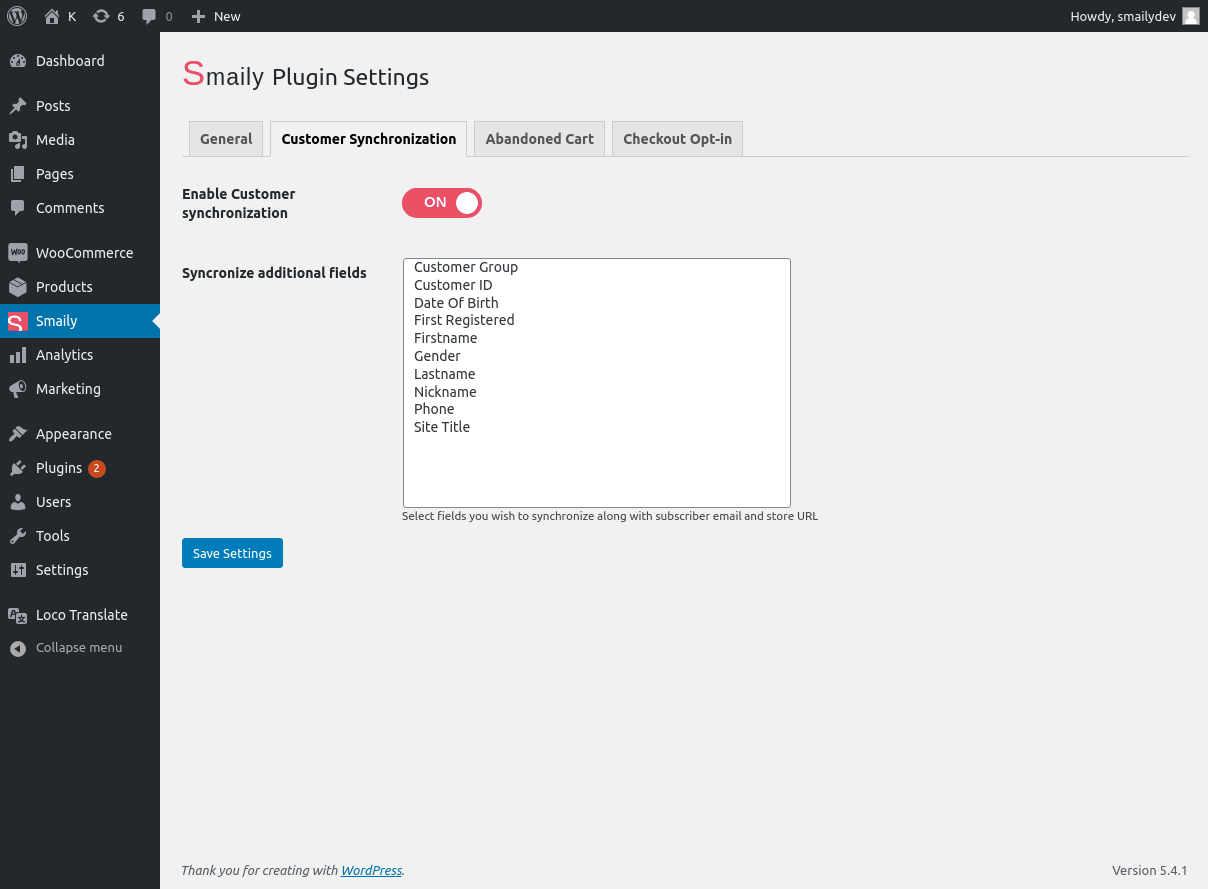
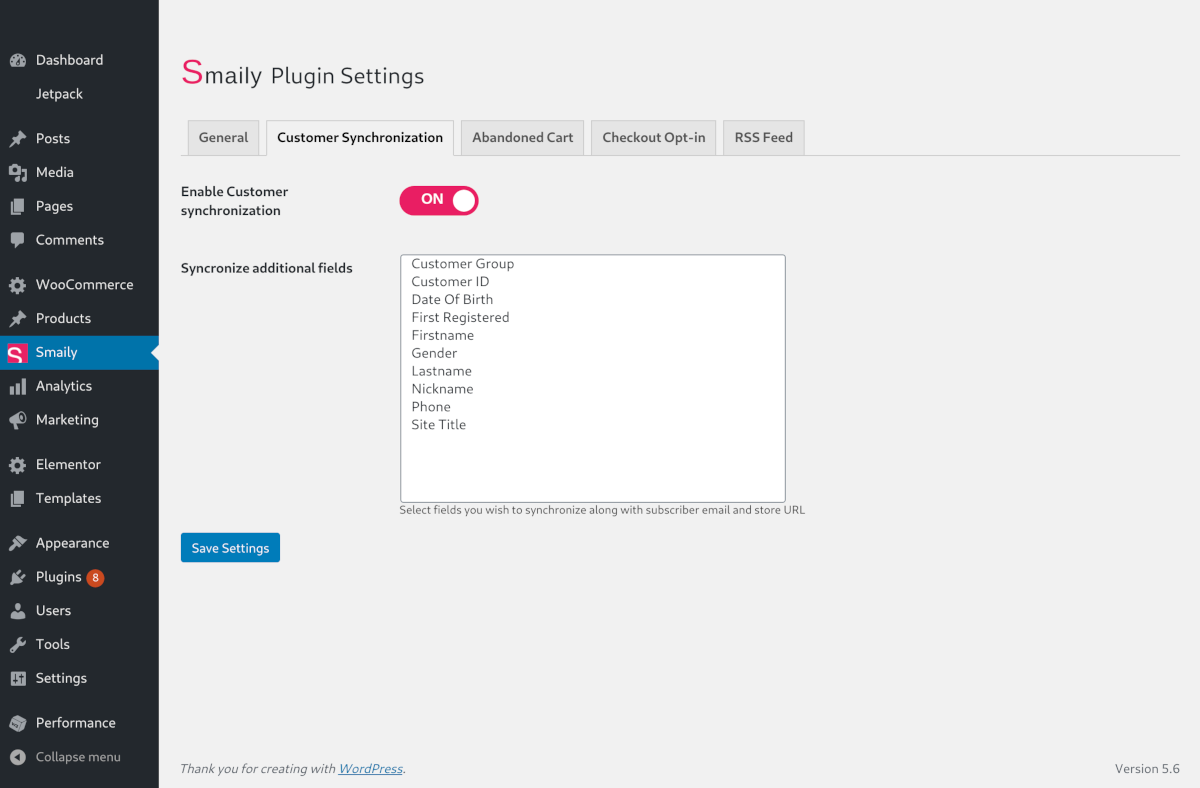
Release 1.7.0 checklist changes

diff --git a/smaily-for-woocommerce.php b/smaily-for-woocommerce.php
@@ -13,7 +13,7 @@
  * Plugin Name: Smaily for WooCommerce
  * Plugin URI: https://github.com/sendsmaily/smaily-woocommerce-plugin
  * Description: Smaily email marketing and automation extension plugin for WooCommerce. Set up easy sync for your contacts, add opt-in subscription form, import products directly to your email template and send abandoned cart reminder emails.
- * Version: 1.6.1
+ * Version: 1.7.0
  * License: GPL3
  * Author: Smaily
  * Author URI: https://smaily.com/
@@ -53,7 +53,7 @@ use Smaily_Inc\Base\Cron;
 define( 'SMAILY_PLUGIN_PATH', plugin_dir_path( __FILE__ ) );
 define( 'SMAILY_PLUGIN_URL', plugin_dir_url( __FILE__ ) );
 define( 'SMAILY_PLUGIN_NAME', plugin_basename( __FILE__ ) );
-define( 'SMAILY_PLUGIN_VERSION', '1.6.1' );
+define( 'SMAILY_PLUGIN_VERSION', '1.7.0' );
 
 // Required to use functions is_plugin_active and deactivate_plugins.
 require_once ABSPATH . 'wp-admin/includes/plugin.php';

diff --git a/CHANGELOG.md b/CHANGELOG.md
@@ -1,9 +1,16 @@
 # Changelog
 
+### 1.7.0
+- Test compatibility with WordPress 5.6. [issue #70](https://github.com/sendsmaily/smaily-woocommerce-plugin/issues/70)
+- Smaily plugin settings "General" tab refinement. [issue #72](https://github.com/sendsmaily/smaily-woocommerce-plugin/pull/72)
+- Improve plugin description to better describe the plugin's features. [issue #75](https://github.com/sendsmaily/smaily-woocommerce-plugin/pull/75)
+- Dequeue 3rd party styles in module settings page. [issue #77](https://github.com/sendsmaily/smaily-woocommerce-plugin/pull/77)
+- Update "required at least" WordPress version to 4.5 in README.md. [issue #78](https://github.com/sendsmaily/smaily-woocommerce-plugin/pull/78)
+- Fix API credentials validation messages. [issue #79](https://github.com/sendsmaily/smaily-woocommerce-plugin/pull/79)
+
 ### 1.6.1
 - Improve naming of widget so it's more distinguishable. [issue #64](https://github.com/sendsmaily/smaily-woocommerce-plugin/issues/64)
 - Bugfix - validate credentials fails if password contains '&' character. [issue #62](https://github.com/sendsmaily/smaily-woocommerce-plugin/issues/62)
-
 
 ### 1.6.0
 

diff --git a/README.md b/README.md
@@ -131,10 +131,11 @@ Also you can determine if customer had more than 10 items in cart
 
 ## Screenshots found in /assets
 
-1. WooCommerce Smaily validate settings screen.
-2. WooCommerce Smaily general settings screen.
+1. WooCommerce Smaily general settings screen.
+2. WooCommerce Smaily customer synchronization settings screen.
 3. WooCommerce Smaily abadoned cart settings screen.
-4. WooCommerce Smaily checkout opt-in screen.
-5. WooCommerce Smaily RSS-feed screen.
-6. WooCommerce Smaily widget settings screen.
-7. WooCommerce Smaily widget front screen.
+4. Woocommerce Smaily checkout opt-in screen.
+5. WooCommerce Smaily RSS screen.
+6. WooCommerce Smaily RSS-feed screen.
+7. WooCommerce Smaily widget settings screen.
+8. WooCommerce Smaily widget front screen.
